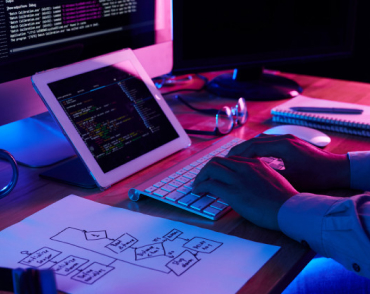
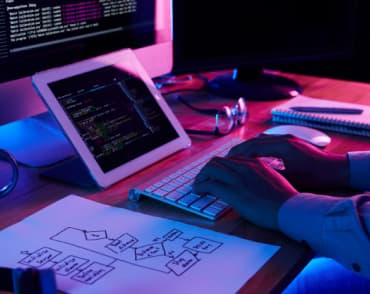
.

diff --git a/index.html b/index.html
@@ -116,7 +116,7 @@
           <ul class="works-list list">
             <li class="works-list-item">
               <img
-                src="./images/what-are-we-doing/optimized/img-1.jpg"
+                src="./images/what-are-we-doing/img-1.jpg"
                 alt="Написание кода на клавиатуре"
                 width="370"
                 height="294"
@@ -124,7 +124,7 @@
             </li>
             <li class="works-list-item">
               <img
-                src="./images/what-are-we-doing/optimized/img-2.jpg"
+                src="./images/what-are-we-doing/img-2.jpg"
                 alt="смартфон в руках на фоне ноутбука"
                 width="370"
                 height="294"
@@ -132,7 +132,7 @@
             </li>
             <li class="works-list-item">
               <img
-                src="./images/what-are-we-doing/optimized/img-3.jpg"
+                src="./images/what-are-we-doing/img-3.jpg"
                 alt="цвеовая палитра на экране планшета"
                 width="370"
                 height="294"
